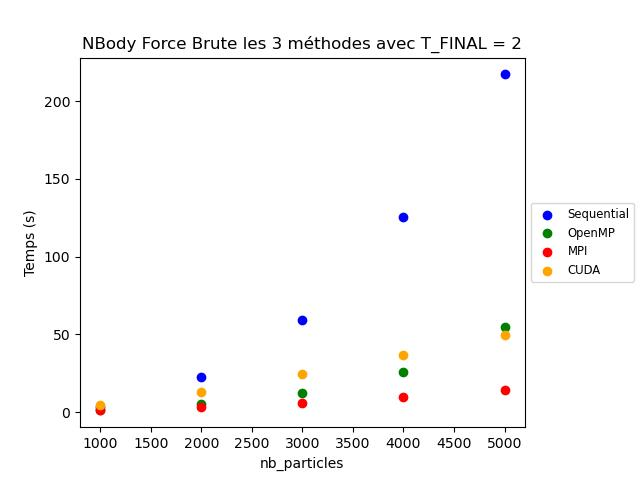
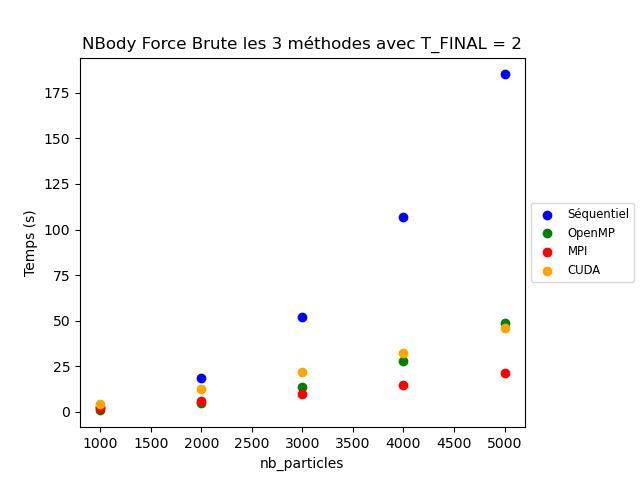
statistics and graphs

diff --git a/statistics.py b/statistics.py
@@ -131,7 +131,7 @@ def bar_graph(coeur):
     data_sequential = []
     data_openmp = []
     data_mpi = []
-    data_cuda = [4.721920, 14.052495, 11.095877, 22.028955, 28.343530]
+    data_cuda = [4.178279, 12.758548, 9.293374, 18.270145, 23.828161]
     legende = []
     n = 5
     for i in range(len(values)):
@@ -171,20 +171,21 @@ def bar_graph(coeur):
 
 
 def evolution_t_graph(nb_particles, coeur):
-    title = f"NBody Force Brute les 3 méthodes avec n_particle = {nb_particles}"
+    title = f"NBody Force Brute les 3 méthodes avec n_particles = {nb_particles}"
 
     data_sequential = []
     data_openmp = []
     data_mpi = []
-    data_cuda = [2.297745, 4.279224, 6.238240, 8.506100, 10.356476, 12.732869, 14.744954, 16.276171, 18.448729, 21.032212]
+    data_cuda = [2.151075, 3.984043, 5.810516, 7.831068, 9.059130, 11.160149, 12.892105, 14.870889, 16.352423, 18.021320]
+
     t_finals = range(1, 11)
-    n = 5
+    n = 10
     for t in t_finals:
         T_FINAL = t
         sequential_time = get_duration(sequential_args(nb_particles, T_FINAL))
 
         data_sequential.append(sequential_time)
-        data_openmp.append(get_duration(openmp_args(nb_particles, T_FINAL, n)))
+        data_openmp.append(get_duration(openmp_args(nb_particles, T_FINAL, coeur)))
         data_mpi.append(get_duration(mpi_args(nb_particles, T_FINAL, n, coeur)))
         data_cuda[t-1] = data_cuda[t-1]
 
@@ -212,13 +213,14 @@ def evolution_nb_particles_graph(T_FINAL, coeur):
     data_sequential = []
     data_openmp = []
     data_mpi = []
-    data_cuda = [4.671451, 13.238847, 24.246035, 37.037894, 49.437910]
+    data_cuda = [4.117001, 12.752132, 22.066512, 32.404332, 46.290168]
+
     nb_particles_range = range(1000, 6000, 1000)
-    n = 5
+    n = 10
     for nb_particles in nb_particles_range:
         sequential_time = get_duration(sequential_args(nb_particles, T_FINAL))
         data_sequential.append(sequential_time)
-        data_openmp.append(get_duration(openmp_args(nb_particles, T_FINAL, n)))
+        data_openmp.append(get_duration(openmp_args(nb_particles, T_FINAL, coeur)))
         data_mpi.append(get_duration(mpi_args(nb_particles, T_FINAL, n, coeur)))
         data_cuda[(nb_particles//1000)-1] = data_cuda[(nb_particles//1000)-1]
 
@@ -242,11 +244,11 @@ def evolution_nb_particles_graph(T_FINAL, coeur):
 
 host = 10
 coeur = os.cpu_count()
-number_particles = 2000
+number_particles = 5000
 time = 2
 
-mpi_graph(host, coeur, number_particles, time)
-openmp_graph(coeur, number_particles, time)
+# mpi_graph(host, coeur, number_particles, time)
+# openmp_graph(coeur, number_particles, time)
 evolution_t_graph(1000, coeur)
 evolution_nb_particles_graph(2, coeur)
 bar_graph(coeur)
